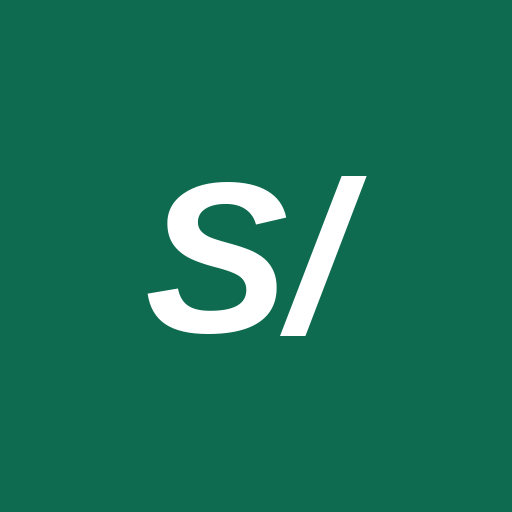
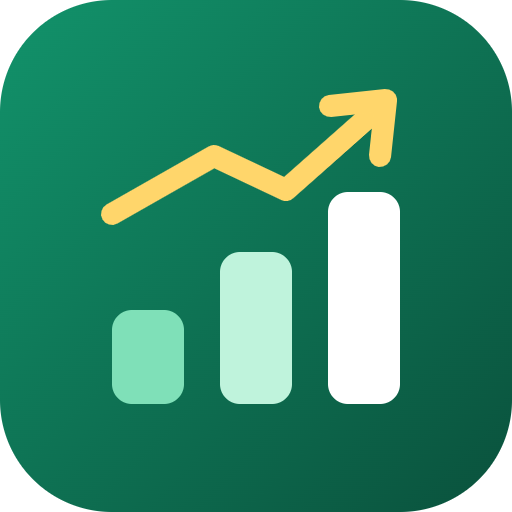
Pruebas: nuevo icono de crecimiento y acceso mas legible

diff --git a/dashboard.css b/dashboard.css
@@ -223,3 +223,15 @@ body[data-pc-view] .bottom{background:color-mix(in srgb,var(--surface2) 93%,tran
 .pc-chart-tip{white-space:pre-line;line-height:1.6;border:1px solid color-mix(in srgb,var(--accent) 60%,var(--line));box-shadow:0 8px 28px #083c2a30;padding:12px 16px}
 @media(prefers-reduced-motion:no-preference){.pc-experience .dash-reveal .chart-future .chart-bar{animation-delay:calc(var(--dash-delay,0ms) + var(--bar-delay,0ms))}}
 @media(max-width:699px){.chart-shell{padding:12px 0 6px}.pc-experience .chart-future .chart-month-label{font-size:16px}.chart-hint{font-size:13px}}
+/* Icono v36: logo con crecimiento, titulo legible y enlaces compactos en el acceso. */
+.brand i{background:url(icon.svg) center/cover;border-radius:8px}.brand i::after{content:none}
+#pc-ov.pc-entry .pc-logo{width:76px;height:76px;padding:0;border:0;border-radius:22px;background:none;overflow:hidden;box-shadow:0 14px 30px -8px #0a513c66,0 0 0 6px #ffffff8c;backdrop-filter:none}
+#pc-ov.pc-entry .pc-logo img{display:block;width:100%;height:100%}
+#pc-ov.pc-entry .pc-hero{color:#0b4a37}
+#pc-ov.pc-entry .pc-name{color:#0b4a37;text-shadow:0 1px 0 #ffffffb3}
+#pc-ov.pc-entry .pc-lg select{min-width:0;min-height:40px;padding:6px 32px 6px 14px;border-radius:999px;font-size:14px;font-weight:600}
+#pc-ov.pc-entry .pc-auth-card a{color:#0E6B50;font-weight:600;text-decoration-color:#0e6b5059;text-underline-offset:3px}
+#pc-ov.pc-entry .pc-auth-card .pc-l{display:inline-flex;align-items:center;margin:4px 20px 0 0;color:#0E6B50;font-weight:600;text-decoration:none}
+#pc-ov.pc-entry .pc-auth-card .pc-l:hover{text-decoration:underline}
+#pc-ov.pc-entry .pc-auth-card .pc-l+br{display:none}
+@media(max-width:760px){#pc-ov.pc-entry .pc-logo{width:64px;height:64px;border-radius:18px}#pc-ov.gate.pc-entry{gap:20px}}

diff --git a/index.html b/index.html
@@ -1,7 +1,7 @@
 <!doctype html>
 <html lang="es">
 <head>
-<meta name="pc-version" content="20261128-beta-v36">
+<meta name="pc-version" content="20261128-icono-v37">
 <meta charset="utf-8">
 <meta http-equiv="Content-Security-Policy" content="default-src 'self'; script-src 'self' 'unsafe-inline'; style-src 'self' 'unsafe-inline'; font-src 'self'; img-src 'self' data: blob:; connect-src 'self' https://sqfobtlxvddmijafttog.supabase.co https://open.er-api.com; object-src 'none'; base-uri 'self'; form-action 'self'; worker-src 'self'; manifest-src 'self'">
 <meta name="viewport" content="width=device-width,initial-scale=1,viewport-fit=cover">
@@ -350,7 +350,7 @@ button:disabled{cursor:default;transform:none;filter:none}
 .soc:hover,.soc:focus-visible{border-color:var(--accent);color:var(--accent)}
 .soc svg{width:28px;height:28px}
 </style>
-<link rel="stylesheet" href="dashboard.css?v=30">
+<link rel="stylesheet" href="dashboard.css?v=31">
 <script defer src="dashboard.js?v=30"></script>
 </head>
 <body><div style="position:fixed;top:0;left:0;right:0;z-index:999;background:#B45309;color:#fff;font:600 12px system-ui;text-align:center;padding:2px">Plata Clara Beta</div>

diff --git a/cloud.js b/cloud.js
@@ -394,7 +394,7 @@
     var orig = html; html = tr(html);
     var gate = !user || !!sticky;
     ov = document.createElement('div'); ov.id = 'pc-ov'; if (gate) ov.className = 'gate pc-entry';
-    ov.innerHTML = (gate ? '<div class="pc-hero"><div class="pc-logo">S/</div><div class="pc-name">Plata Clara</div><div class="pc-tag">' + tr('Tus finanzas, claras y en orden') + '</div>' + langPick() + '<div class="pc-auth-art" aria-hidden="true"><i></i><i></i><i></i></div></div>' : '') +
+    ov.innerHTML = (gate ? '<div class="pc-hero"><div class="pc-logo"><img src="icon.svg" alt="" width="72" height="72"></div><div class="pc-name">Plata Clara</div><div class="pc-tag">' + tr('Tus finanzas, claras y en orden') + '</div>' + langPick() + '<div class="pc-auth-art" aria-hidden="true"><i></i><i></i><i></i></div></div>' : '') +
       '<div class="pc-card pc-auth-card" role="dialog" aria-modal="true" aria-label="Plata Clara">' + html + '</div>';
     if (!gate) ov.addEventListener('click', function (e) { if (e.target === ov) close(); });
     document.body.appendChild(ov);

diff --git a/sw.js b/sw.js
@@ -1,8 +1,8 @@
 // Plata Clara - service worker
 // Estrategia: red primero (siempre intenta bajar lo último), caché solo si no hay internet.
 const SCOPE = new URL(self.registration.scope).pathname;   // cada sitio (real / pruebas) tiene su propia caché
-const CACHE = 'plata-clara-v36-beta-' + SCOPE;
-const BASE = ['./', 'index.html', 'config.js', 'sync-model.js', 'dashboard.css?v=30', 'fonts/fonts.css', 'vendor/supabase-js-2.45.4.umd.js', 'dashboard.js?v=30', 'cloud.js', 'manifest.webmanifest', 'icon-192.png', 'icon-512.png', 'notif-icon.png', 'badge.png', 'apple-touch-icon.png'];
+const CACHE = 'plata-clara-v37-icono-' + SCOPE;
+const BASE = ['./', 'index.html', 'config.js', 'sync-model.js', 'dashboard.css?v=31', 'fonts/fonts.css', 'vendor/supabase-js-2.45.4.umd.js', 'dashboard.js?v=30', 'cloud.js', 'manifest.webmanifest', 'icon-192.png', 'icon-512.png', 'icon.svg', 'icon-maskable-512.png', 'notif-icon.png', 'badge.png', 'apple-touch-icon.png'];
 
 self.addEventListener('install', function (e) {
   self.skipWaiting();
